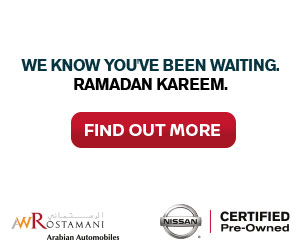
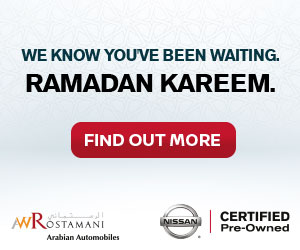
update NCPO Ramadan MPU

diff --git a/AAC/Nissan/NCPO-Ramadan/300x250_EN/index.html b/AAC/Nissan/NCPO-Ramadan/300x250_EN/index.html
@@ -30,22 +30,24 @@
 
         tl.to(f1_text, 0.5, {autoAlpha: 1})
           .to(f1_car, 0.5, {autoAlpha: 1}, "+=0.5")
-          .to(f1_car, 0.5, {autoAlpha: 0, delay: 2})
-          .to(frame2, 0.5, {autoAlpha: 1})
-          .to(frame2, 0.5, {autoAlpha: 0, delay: 2})
-          .to(frame2_1, 0.5, {autoAlpha: 1})
-          .to(frame2_1, 0.5, {autoAlpha: 0, delay: 2})
-          .to(frame3, 0.5, {autoAlpha: 1})
-          .to(frame3, 0.5, {autoAlpha: 0, delay: 2})
-          .to(frame4, 0.5, {autoAlpha: 1})
-          .to(frame4, 0.5, {autoAlpha: 0, delay: 2})
-          .to(frame5, 0.5, {autoAlpha: 1})
-          .to(frame5, 0.5, {autoAlpha: 0, delay: 2})
-          .to(frame6, 0.5, {autoAlpha: 1})
-          .to(frame6, 0.5, {autoAlpha: 0, delay: 2})
-          .to(frame7, 0.5, {autoAlpha: 1})
-          .to(frame7, 0.5, {autoAlpha: 0, delay: 2})
-          .to(f1_text, 0.5, {top: 30, ease: Power1.easeOut})
+          .to(f1_car, 0.5, {autoAlpha: 0, delay: 2});
+        tl.to(frame2, 0.5, {autoAlpha: 1})
+          .to(frame2, 0.5, {autoAlpha: 0, delay: 2});
+        tl.to(frame2_1, 0.5, {autoAlpha: 1})
+          .to(frame2_1, 0.5, {autoAlpha: 0, delay: 2});
+        tl.to(frame3, 0.5, {autoAlpha: 1})
+          .to(frame3, 0.5, {autoAlpha: 0, delay: 2});
+        tl.to(frame4, 0.5, {autoAlpha: 1})
+          .to(frame4, 0.5, {autoAlpha: 0, delay: 2});
+        tl.to(frame5, 0.5, {autoAlpha: 1})
+          .to(frame5, 0.5, {autoAlpha: 0, delay: 2});
+        tl.to(frame6, 0.5, {autoAlpha: 1})
+          .to(frame6, 0.5, {autoAlpha: 0, delay: 2});
+        tl.to(frame7, 0.5, {autoAlpha: 1})
+          .to(frame7, 0.5, {autoAlpha: 0, delay: 2});
+        tl.to(frame7, 0.5, {autoAlpha: 1})
+          .to(frame7, 0.5, {autoAlpha: 0, delay: 2});
+        tl.to(f1_text, 0.5, {top: 19, ease: Power1.easeOut})
           .to(f8_text, 0.5, {autoAlpha: 1}, "+=0.5")
           .to(cta, 0.5, {autoAlpha: 1, top: 0, ease: Power1.easeOut}, "+=0.5");
       }
@@ -54,7 +56,6 @@
   <body onload="init()">
     <div id="banner">
       <a class="click-tag" href="javascript:window.open(window.clickTag, '_blank')">
-        <div id="f1-text" class="layer"></div>
         <div id="f1-car" class="layer"></div>
         <div id="frame2" class="layer"></div>
         <div id="frame2-1" class="layer"></div>
@@ -65,6 +66,7 @@
         <div id="frame7" class="layer"></div>
         <div id="frame8-text" class="layer"></div>
         <div id="cta" class="layer"></div>
+        <div id="f1-text" class="layer"></div>
         <div id="awr-logo" class="layer"></div>
         <div id="cpo-logo" class="layer"></div>
       </a>

diff --git a/AAC/Nissan/NCPO-Ramadan/300x250_AR/styles.css b/AAC/Nissan/NCPO-Ramadan/300x250_AR/styles.css
@@ -16,7 +16,7 @@ body {
   width: 298px;
   height: 248px;
   border: 1px solid #000;
-  background-color: #fff;
+  background: url('bg.jpg');
   overflow: hidden;
   cursor: pointer;
 }

diff --git a/AAC/Nissan/NCPO-Ramadan/300x250_EN/styles.css b/AAC/Nissan/NCPO-Ramadan/300x250_EN/styles.css
@@ -16,7 +16,7 @@ body {
   width: 298px;
   height: 248px;
   border: 1px solid #000;
-  background-color: #fff;
+  background: url('bg.jpg');
   overflow: hidden;
   cursor: pointer;
 }
